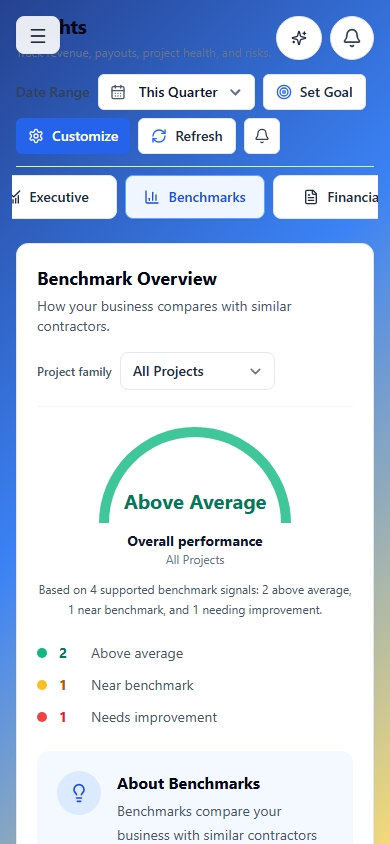
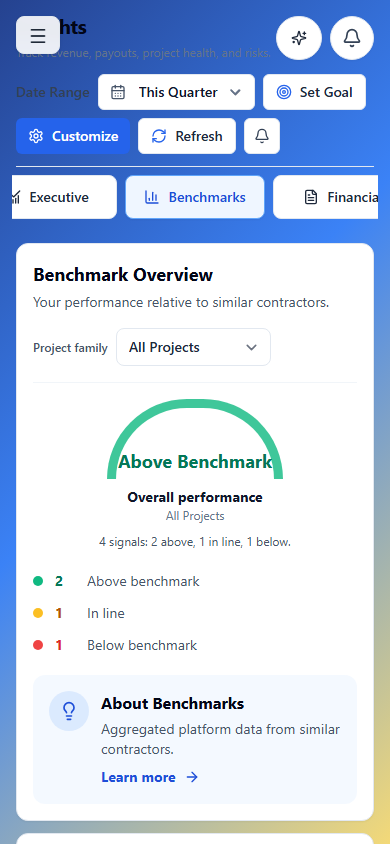
Refine benchmark insights terminology and density

diff --git a/frontend/src/components/dashboard/ContractorInsightsSection.jsx b/frontend/src/components/dashboard/ContractorInsightsSection.jsx
@@ -63,9 +63,9 @@ function displayValue(value) {
 }
 
 function statusLabel(status) {
-  if (status === "above") return "Above similar projects";
-  if (status === "below") return "Needs improvement";
-  return "Near benchmark";
+  if (status === "above") return "Above benchmark";
+  if (status === "below") return "Below benchmark";
+  return "In line with benchmark";
 }
 
 function recommendationTitle(text) {
@@ -76,6 +76,16 @@ function recommendationTitle(text) {
   if (/change|amend|dispute/.test(value)) return "Strengthen change management";
   if (/complete more|history|benchmark/.test(value)) return "Build more benchmark history";
   return "Review this benchmark signal";
+}
+
+function recommendationDescription(text) {
+  const value = safeStr(text).toLowerCase();
+  if (/pric|competitiv/.test(value)) return "Pricing is above similar projects in this family.";
+  if (/timeline|faster|pace|schedul/.test(value)) return "Timelines run longer than comparable projects.";
+  if (/milestone/.test(value)) return "Plans use more milestones than similar projects.";
+  if (/change|amend|dispute/.test(value)) return "Change patterns differ from the current benchmark.";
+  if (/complete more|history|benchmark/.test(value)) return "More completed projects will strengthen comparisons.";
+  return safeStr(text);
 }
 
 function metricLabel(row) {
@@ -109,20 +119,20 @@ export default function ContractorInsightsSection({
   const overall = !data.available || !rows.length
     ? "Unavailable"
     : aboveCount > belowCount
-    ? "Above Average"
+    ? "Above Benchmark"
     : belowCount > aboveCount
-    ? "Needs Improvement"
-    : "Near Benchmark";
+    ? "Below Benchmark"
+    : "In Line";
   const preliminary = !data.available || safeStr(data.confidence).toLowerCase() === "low";
   const statusExplanation = rows.length
-    ? `Based on ${rows.length} supported benchmark signals: ${aboveCount} above average, ${averageCount} near benchmark, and ${belowCount} needing improvement.`
-    : "No supported benchmark signals are available yet.";
+    ? `${rows.length} signals: ${aboveCount} above, ${averageCount} in line, ${belowCount} below.`
+    : "No benchmark signals available yet.";
 
   return (
     <div data-testid="dashboard-contractor-insights-section" className="space-y-3">
-      <section data-testid="insights-benchmarks-overview" className="rounded-xl border border-slate-200 bg-white p-5 shadow-sm md:p-6">
+      <section data-testid="insights-benchmarks-overview" className="rounded-xl border border-slate-200 bg-white p-4 shadow-sm md:p-5">
         <div className="flex flex-col gap-4 border-b border-slate-100 pb-4 sm:flex-row sm:items-center sm:justify-between">
-          <div><h2 className="text-lg font-bold text-slate-950">Benchmark Overview</h2><p className="mt-1 text-sm text-slate-600">How your business compares with similar contractors.</p></div>
+          <div><h2 className="text-lg font-bold text-slate-950">Benchmark Overview</h2><p className="mt-1 text-sm text-slate-600">Your performance relative to similar contractors.</p></div>
           <div className="flex items-center gap-2">
             <label htmlFor="contractor-insights-family-filter" className="text-xs font-semibold text-slate-600">Project family</label>
             <select id="contractor-insights-family-filter" data-testid="dashboard-contractor-insights-family-filter" value={selectedFamilyKey} onChange={(event) => onFamilyChange?.(event.target.value)} className="min-w-0 rounded-lg border border-slate-200 bg-white px-3 py-2 text-sm font-semibold text-slate-800 sm:min-w-[190px]">
@@ -131,24 +141,24 @@ export default function ContractorInsightsSection({
           </div>
         </div>
         {safeStr(data.scope_notice) ? <p data-testid="dashboard-contractor-insights-scope-notice" className="mt-4 rounded-lg border border-blue-100 bg-blue-50 px-3 py-2 text-xs text-blue-800">{data.scope_notice}</p> : null}
-        <div className="grid gap-6 pt-5 lg:grid-cols-[1fr_1fr_1.35fr] lg:items-center">
+        <div className="grid gap-5 pt-4 lg:grid-cols-[1fr_1fr_1.35fr] lg:items-center">
           <div className="text-center lg:border-r lg:border-slate-200 lg:pr-6">
-            <div className="mx-auto flex h-24 w-48 items-end justify-center rounded-t-full border-[10px] border-b-0 border-emerald-500/80 pb-2"><span className="text-xl font-bold text-emerald-700">{overall}</span></div>
+            <div className="mx-auto flex h-20 w-44 items-end justify-center rounded-t-full border-[9px] border-b-0 border-emerald-500/80 pb-1"><span className="text-lg font-bold text-emerald-700">{overall}</span></div>
             <p className="mt-2 text-sm font-bold text-slate-900">Overall performance</p>
             <p className="text-xs text-slate-500">{safeStr(data.scope_label) || "All Projects"}</p>
-            <p data-testid="insights-benchmarks-status-explanation" className="mx-auto mt-3 max-w-xs text-xs leading-5 text-slate-600">{statusExplanation} {preliminary ? "Preliminary result based on available signals." : ""}</p>
+            <p data-testid="insights-benchmarks-status-explanation" className="mx-auto mt-2 max-w-xs text-xs leading-5 text-slate-600">{statusExplanation} {preliminary ? "Preliminary." : ""}</p>
           </div>
           <div className="space-y-3 text-sm">
-            {rows.length ? <><div className="flex items-center gap-3"><span className="h-2.5 w-2.5 rounded-full bg-emerald-500" /><strong className="w-5 text-emerald-700">{aboveCount}</strong><span className="text-slate-600">Above average</span></div><div className="flex items-center gap-3"><span className="h-2.5 w-2.5 rounded-full bg-amber-400" /><strong className="w-5 text-amber-700">{averageCount}</strong><span className="text-slate-600">Near benchmark</span></div><div className="flex items-center gap-3"><span className="h-2.5 w-2.5 rounded-full bg-red-500" /><strong className="w-5 text-red-600">{belowCount}</strong><span className="text-slate-600">Needs improvement</span></div></> : <p className="text-slate-500">Comparison counts are unavailable.</p>}
+            {rows.length ? <><div className="flex items-center gap-3"><span className="h-2.5 w-2.5 rounded-full bg-emerald-500" /><strong className="w-5 text-emerald-700">{aboveCount}</strong><span className="text-slate-600">Above benchmark</span></div><div className="flex items-center gap-3"><span className="h-2.5 w-2.5 rounded-full bg-amber-400" /><strong className="w-5 text-amber-700">{averageCount}</strong><span className="text-slate-600">In line</span></div><div className="flex items-center gap-3"><span className="h-2.5 w-2.5 rounded-full bg-red-500" /><strong className="w-5 text-red-600">{belowCount}</strong><span className="text-slate-600">Below benchmark</span></div></> : <p className="text-slate-500">Comparison counts unavailable.</p>}
           </div>
-          <div className="flex gap-4 rounded-xl bg-blue-50/70 p-5"><span className="flex h-11 w-11 shrink-0 items-center justify-center rounded-full bg-blue-100 text-blue-700"><Lightbulb aria-hidden="true" className="h-5 w-5" /></span><div><h3 className="font-bold text-slate-950">About Benchmarks</h3><p className="mt-1 text-sm leading-6 text-slate-600">Benchmarks compare your business with similar contractors using aggregated platform data.</p><button type="button" className="mt-2 inline-flex items-center gap-2 text-sm font-bold text-blue-700">Learn more about benchmarks <ArrowRight aria-hidden="true" className="h-4 w-4" /></button></div></div>
+          <div className="flex gap-3 rounded-xl bg-blue-50/70 p-4"><span className="flex h-10 w-10 shrink-0 items-center justify-center rounded-full bg-blue-100 text-blue-700"><Lightbulb aria-hidden="true" className="h-5 w-5" /></span><div><h3 className="font-bold text-slate-950">About Benchmarks</h3><p className="mt-1 text-sm leading-5 text-slate-600">Aggregated platform data from similar contractors.</p><button type="button" className="mt-2 inline-flex items-center gap-2 text-sm font-bold text-blue-700">Learn more <ArrowRight aria-hidden="true" className="h-4 w-4" /></button></div></div>
         </div>
       </section>
 
-      {!data.available || preliminary ? <section data-testid="insights-benchmarks-low-data" className="rounded-xl border border-amber-200 bg-amber-50 px-5 py-4"><h2 className="text-sm font-bold text-amber-950">More completed projects are needed for detailed peer values.</h2><p className="mt-1 text-sm leading-6 text-amber-800">Current qualitative signals use the benchmark data available for this project family. Completing more projects will strengthen future comparisons.</p></section> : null}
+      {!data.available || preliminary ? <section data-testid="insights-benchmarks-low-data" className="rounded-xl border border-amber-200 bg-amber-50 px-4 py-3"><h2 className="text-sm font-bold text-amber-950">More completed projects are needed for detailed values.</h2><p className="mt-1 text-sm leading-5 text-amber-800">Current signals use available data. More history will strengthen comparisons.</p></section> : null}
 
       <section data-testid="insights-benchmarks-table" className="overflow-hidden rounded-xl border border-slate-200 bg-white shadow-sm">
-        <div className="px-5 py-4 md:px-6"><h2 className="text-lg font-bold text-slate-950">Key Benchmark Metrics</h2><p className="mt-1 text-sm text-slate-500">{numericMode ? "Detailed numeric peer comparison." : "Qualitative comparison based on currently supported benchmark signals."}</p></div>
+        <div className="px-5 py-3"><h2 className="text-lg font-bold text-slate-950">Key Benchmark Metrics</h2><p className="mt-1 text-sm text-slate-500">{numericMode ? "Detailed peer comparison." : "Comparison based on available signals."}</p></div>
         <div className="hidden md:block"><table className="w-full text-left"><thead className="border-y border-slate-200 bg-slate-50/70 text-xs font-semibold text-slate-500"><tr><th className="px-6 py-3">Metric</th>{numericMode ? <><th className="px-4 py-3">Your Business</th><th className="px-4 py-3">Industry Average</th><th className="px-4 py-3">Top Performers</th><th className="px-4 py-3">Your Percentile</th><th className="px-4 py-3">Difference</th></> : <><th className="px-4 py-3">Confidence</th><th className="px-4 py-3">Qualitative Comparison</th><th className="px-4 py-3">Interpretation</th></>}</tr></thead><tbody className="divide-y divide-slate-100">
           {rows.length ? rows.map((row) => { const status = statusForRow(row); return <tr key={row.key || row.label} data-testid={`dashboard-contractor-insights-row-${row.key}`}><td className="px-6 py-4"><div className="flex items-center gap-3"><MetricIcon status={status} /><span className="text-sm font-bold text-slate-900">{metricLabel(row)}</span></div></td>{numericMode ? <><td className="px-4 py-4 text-sm font-semibold text-slate-800">{displayValue(row.contractor_value)}</td><td className="px-4 py-4 text-sm text-slate-700">{displayValue(row.industry_average)}</td><td className="px-4 py-4 text-sm text-slate-700">{displayValue(row.top_performer_value)}</td><td className="px-4 py-4 text-sm text-slate-700">{displayValue(row.percentile)}</td><td className="px-4 py-4 text-sm font-semibold text-slate-700">{safeStr(row.comparison) || "—"}</td></> : <><td className="px-4 py-4 text-sm text-slate-600">{safeStr(row.confidence) || "Preliminary signal"}</td><td className={`px-4 py-4 text-sm font-semibold ${status === "above" ? "text-emerald-700" : status === "below" ? "text-red-600" : "text-amber-700"}`}>{statusLabel(status)}</td><td className="px-4 py-4 text-sm text-slate-700">{safeStr(row.comparison) || "No interpretation available."}</td></>}</tr>; }) : <tr><td colSpan={numericMode ? 6 : 4} className="px-6 py-8 text-center text-sm text-slate-500">No supported benchmark signals are available for this project family.</td></tr>}
         </tbody></table></div>
@@ -156,11 +166,11 @@ export default function ContractorInsightsSection({
       </section>
 
       <div className="grid gap-3 lg:grid-cols-2">
-        <section data-testid="dashboard-contractor-insights-standings" className="rounded-xl border border-slate-200 bg-white p-5 shadow-sm md:p-6"><h2 className="text-lg font-bold text-slate-950">Performance vs. Peers</h2><p className="mt-1 text-sm text-slate-500">Relative positioning only; exact peer values are not available.</p><div data-testid="insights-benchmarks-chart" className="mt-6 space-y-5">{rows.length ? rows.map((row) => { const status = statusForRow(row); const position = status === "above" ? "75%" : status === "below" ? "25%" : "50%"; return <div key={row.key}><div className="mb-2 flex justify-between gap-3 text-xs"><span className="font-semibold text-slate-700">{metricLabel(row)}</span><span className={status === "above" ? "text-emerald-700" : status === "below" ? "text-red-600" : "text-amber-700"}>{statusLabel(status)}</span></div><div className="relative h-5"><div className="absolute left-0 right-0 top-2 h-1 rounded-full bg-slate-100" /><div className="absolute left-1/2 top-0 h-5 border-l border-dashed border-blue-500" /><span className="absolute top-0 h-5 w-5 -translate-x-1/2 rounded-full border-4 border-white bg-slate-700 shadow" style={{ left: position }} /><span className="absolute left-1/2 top-5 -translate-x-1/2 text-[10px] text-slate-500">Benchmark</span></div></div>; }) : <div className="py-12 text-center text-sm text-slate-500">Peer comparison data is unavailable.</div>}</div></section>
-        <section data-testid="dashboard-contractor-insights-recommendations" className="rounded-xl border border-slate-200 bg-white p-5 shadow-sm md:p-6"><h2 className="text-lg font-bold text-slate-950">Focus Opportunities</h2><p className="mt-1 text-sm text-slate-500">Areas with the biggest potential for improvement.</p><div className="mt-5 divide-y divide-slate-100">{data.recommendations.length ? data.recommendations.map((item, index) => <div key={`${item}-${index}`} className="flex items-center gap-3 py-4 first:pt-0"><span className="flex h-8 w-8 shrink-0 items-center justify-center rounded-full border border-blue-200 bg-blue-50 text-blue-600">{index === 0 ? <ArrowDown aria-hidden="true" className="h-4 w-4" /> : <CheckCircle2 aria-hidden="true" className="h-4 w-4" />}</span><div className="min-w-0 flex-1"><h3 className="text-sm font-bold text-slate-900">{recommendationTitle(item)}</h3><p className="mt-1 text-xs leading-5 text-slate-500">{item}</p></div><ArrowRight aria-hidden="true" className="h-4 w-4 shrink-0 text-slate-500" /></div>) : <p className="py-8 text-center text-sm text-slate-500">No focus opportunities are supported by the current benchmark data.</p>}</div></section>
+        <section data-testid="dashboard-contractor-insights-standings" className="rounded-xl border border-slate-200 bg-white p-4 shadow-sm md:p-5"><h2 className="text-lg font-bold text-slate-950">Performance vs. Peers</h2><p className="mt-1 text-sm text-slate-500">Relative position; exact peer values unavailable.</p><div data-testid="insights-benchmarks-chart" className="mt-4 space-y-4">{rows.length ? rows.map((row) => { const status = statusForRow(row); const position = status === "above" ? "75%" : status === "below" ? "25%" : "50%"; return <div key={row.key}><div className="mb-2 flex justify-between gap-3 text-xs"><span className="font-semibold text-slate-700">{metricLabel(row)}</span><span className={status === "above" ? "text-emerald-700" : status === "below" ? "text-red-600" : "text-amber-700"}>{statusLabel(status)}</span></div><div className="relative h-5"><div className="absolute left-0 right-0 top-2 h-1 rounded-full bg-slate-100" /><div className="absolute left-1/2 top-0 h-5 border-l border-dashed border-blue-500" /><span className="absolute top-0 h-5 w-5 -translate-x-1/2 rounded-full border-4 border-white bg-slate-700 shadow" style={{ left: position }} /><span className="absolute left-1/2 top-5 -translate-x-1/2 text-[10px] text-slate-500">Benchmark</span></div></div>; }) : <div className="py-8 text-center text-sm text-slate-500">Peer comparison unavailable.</div>}</div></section>
+        <section data-testid="dashboard-contractor-insights-recommendations" className="rounded-xl border border-slate-200 bg-white p-4 shadow-sm md:p-5"><h2 className="text-lg font-bold text-slate-950">Focus Opportunities</h2><p className="mt-1 text-sm text-slate-500">Signals worth reviewing.</p><div className="mt-4 divide-y divide-slate-100">{data.recommendations.length ? data.recommendations.map((item, index) => <div key={`${item}-${index}`} className="flex items-center gap-3 py-3 first:pt-0"><span className="flex h-8 w-8 shrink-0 items-center justify-center rounded-full border border-blue-200 bg-blue-50 text-blue-600">{index === 0 ? <ArrowDown aria-hidden="true" className="h-4 w-4" /> : <CheckCircle2 aria-hidden="true" className="h-4 w-4" />}</span><div className="min-w-0 flex-1"><h3 className="text-sm font-bold text-slate-900">{recommendationTitle(item)}</h3><p className="mt-1 text-xs leading-5 text-slate-500">{recommendationDescription(item)}</p></div><ArrowRight aria-hidden="true" className="h-4 w-4 shrink-0 text-slate-500" /></div>) : <p className="py-6 text-center text-sm text-slate-500">No supported opportunities.</p>}</div></section>
       </div>
 
-      <section className="rounded-xl border border-slate-200 bg-white px-5 py-4 shadow-sm"><div className="flex flex-col gap-3 sm:flex-row sm:items-center sm:justify-between"><div className="flex items-center gap-3"><span className="flex h-10 w-10 items-center justify-center rounded-lg bg-blue-50 text-blue-700"><FileBarChart2 aria-hidden="true" className="h-5 w-5" /></span><div><h2 className="font-bold text-slate-950">Explore deeper insights</h2><p className="mt-0.5 text-sm text-slate-500">Dive into detailed reports, charts, performance by category, exports, and more.</p></div></div><button type="button" onClick={onOpenReports} className="inline-flex h-10 items-center justify-center gap-2 rounded-lg border border-blue-500 px-4 text-sm font-bold text-blue-700 hover:bg-blue-50">Go to Reports & Trends <ArrowRight aria-hidden="true" className="h-4 w-4" /></button></div></section>
+      <section className="rounded-xl border border-slate-200 bg-white px-5 py-3 shadow-sm"><div className="flex flex-col gap-3 sm:flex-row sm:items-center sm:justify-between"><div className="flex items-center gap-3"><span className="flex h-10 w-10 items-center justify-center rounded-lg bg-blue-50 text-blue-700"><FileBarChart2 aria-hidden="true" className="h-5 w-5" /></span><div><h2 className="font-bold text-slate-950">Explore deeper insights</h2><p className="mt-0.5 text-sm text-slate-500">Open detailed reports, charts, and exports.</p></div></div><button type="button" onClick={onOpenReports} className="inline-flex h-10 items-center justify-center gap-2 rounded-lg border border-blue-500 px-4 text-sm font-bold text-blue-700 hover:bg-blue-50">Go to Reports & Trends <ArrowRight aria-hidden="true" className="h-4 w-4" /></button></div></section>
     </div>
   );
 }

diff --git a/frontend/tests/business-dashboard-insights.spec.js b/frontend/tests/business-dashboard-insights.spec.js
@@ -265,7 +265,7 @@ test("business dashboard shows contractor insights panel with family filter and 
   await expect(page.getByTestId("insights-benchmarks-table")).toContainText("Key Benchmark Metrics");
   await expect(page.getByTestId("insights-benchmarks-table")).toContainText("Qualitative Comparison");
   await expect(page.getByTestId("insights-benchmarks-table")).not.toContainText("Unavailable");
-  await expect(page.getByTestId("insights-benchmarks-status-explanation")).toContainText("4 supported benchmark signals");
+  await expect(page.getByTestId("insights-benchmarks-status-explanation")).toContainText("4 signals: 2 above, 1 in line, 1 below");
   await expect(page.getByTestId("dashboard-contractor-insights-standings")).toContainText("Performance vs. Peers");
   await expect(page.getByTestId("insights-benchmarks-chart")).toBeVisible();
   await expect(page.getByTestId("dashboard-contractor-insights-row-pricing")).toContainText("Pricing");
@@ -274,7 +274,7 @@ test("business dashboard shows contractor insights panel with family filter and 
   await expect(page.getByTestId("dashboard-contractor-insights-row-reliability")).toContainText("Reliability signals");
   await expect(page.getByTestId("dashboard-contractor-insights-recommendations")).toContainText("Focus Opportunities");
   await expect(page.getByTestId("dashboard-contractor-insights-recommendations")).toContainText("Review project pricing");
-  await expect(page.getByTestId("dashboard-contractor-insights-recommendations")).toContainText("You may want to review pricing for this type of project to stay competitive.");
+  await expect(page.getByTestId("dashboard-contractor-insights-recommendations")).toContainText("Pricing is above similar projects in this family.");
   await expect(page.getByTestId("dashboard-contractor-insights-family-filter")).toBeVisible();
 
   await page.getByTestId("dashboard-contractor-insights-family-filter").selectOption("roofing");